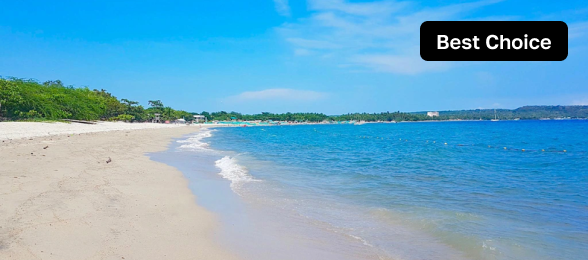
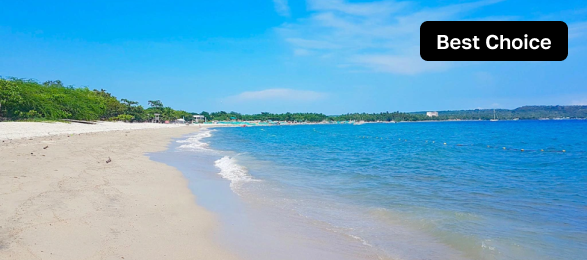
fix: adjust dimensions of best choice card and its image

Changed region(s): [[0.7359, 0.1231, 0.9506, 0.1846]]

diff --git a/css/style.css b/css/style.css
@@ -155,7 +155,7 @@ nav ul li a{
 }
 
 .best-choice-card{
-  width: 558px;
+  width: 587px;
   height: 420px;
   border-radius: 20px;
   background-color: white;
@@ -165,7 +165,6 @@ nav ul li a{
 }
 
 .best-choice-card img{
-  width: 558px;
   height: 260px;
   border-radius: 20px 20px 0px 0px;
 }
